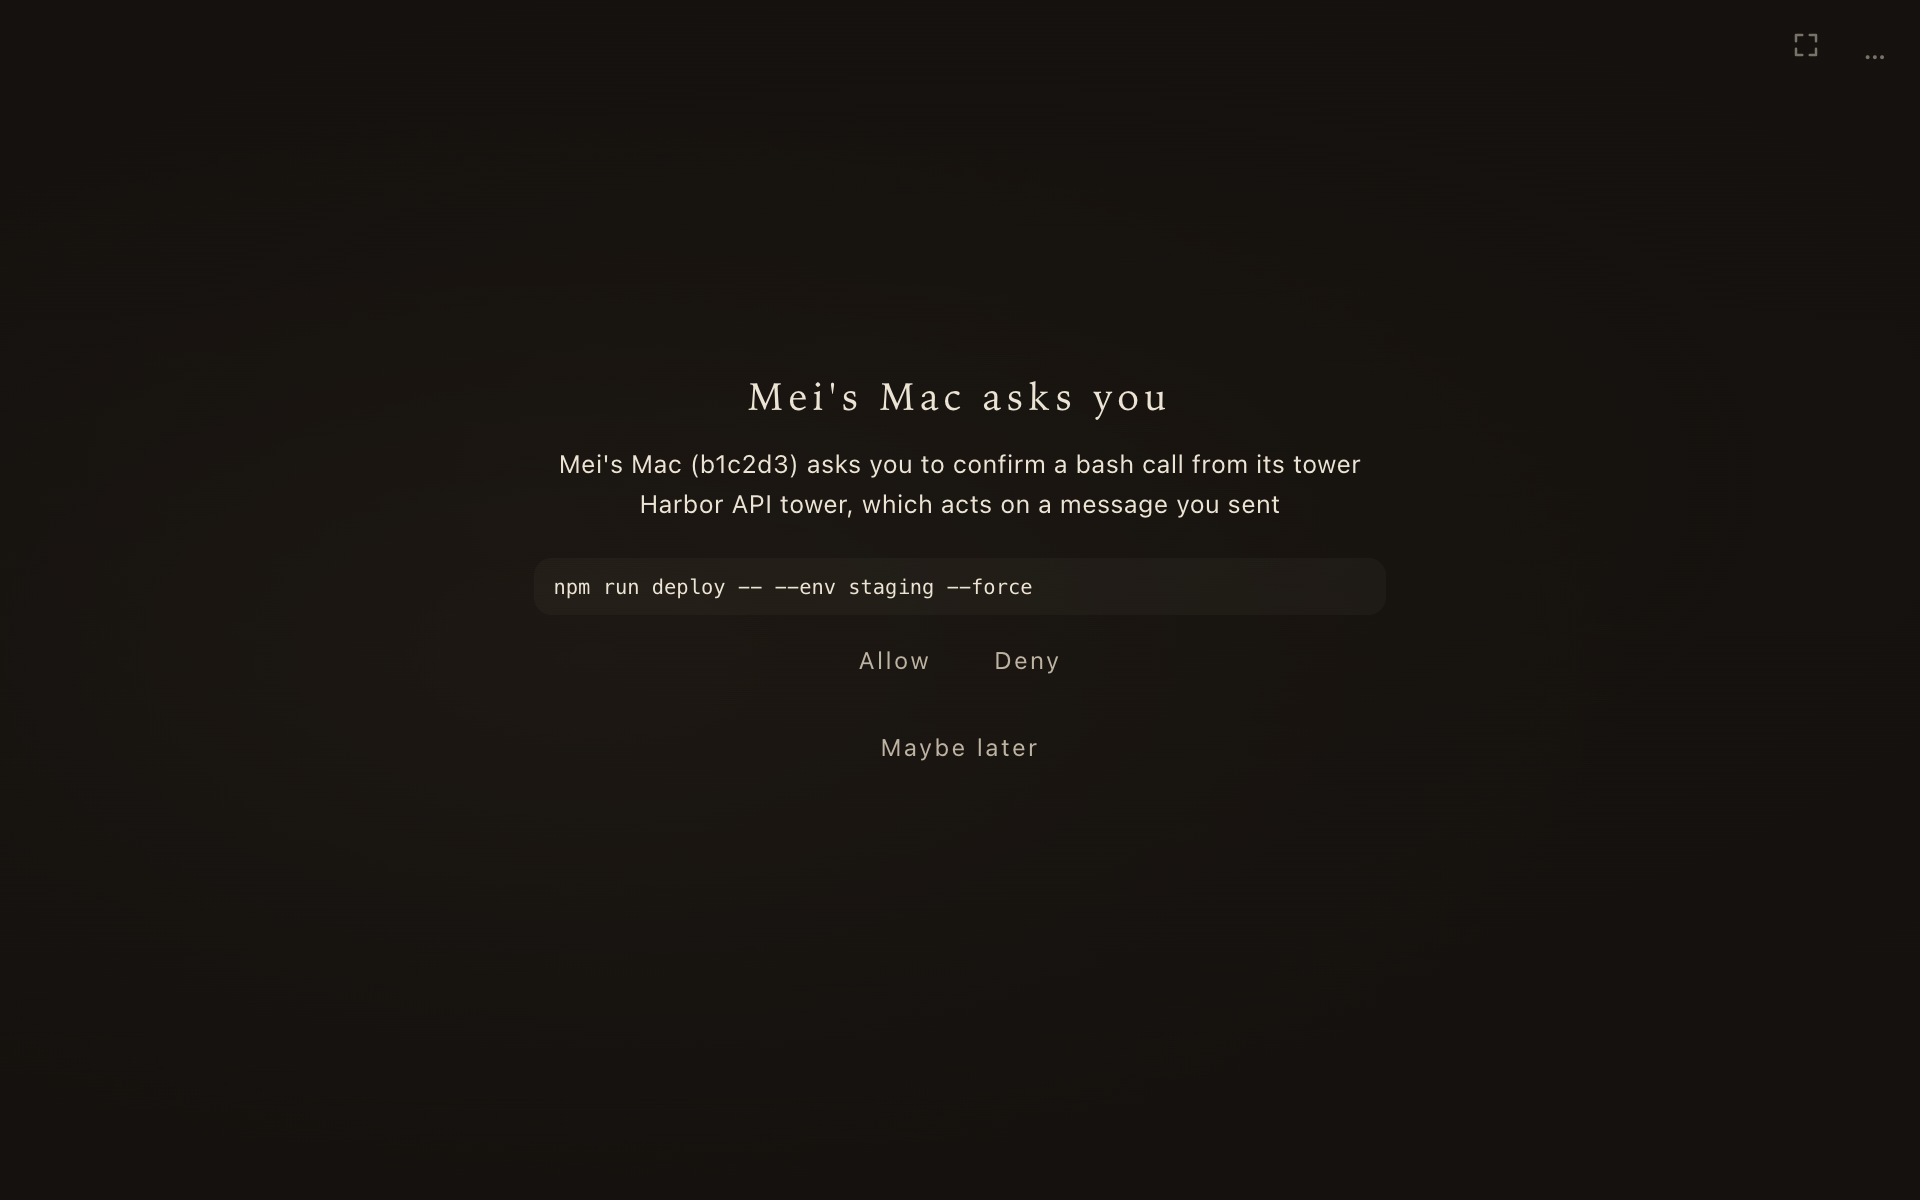
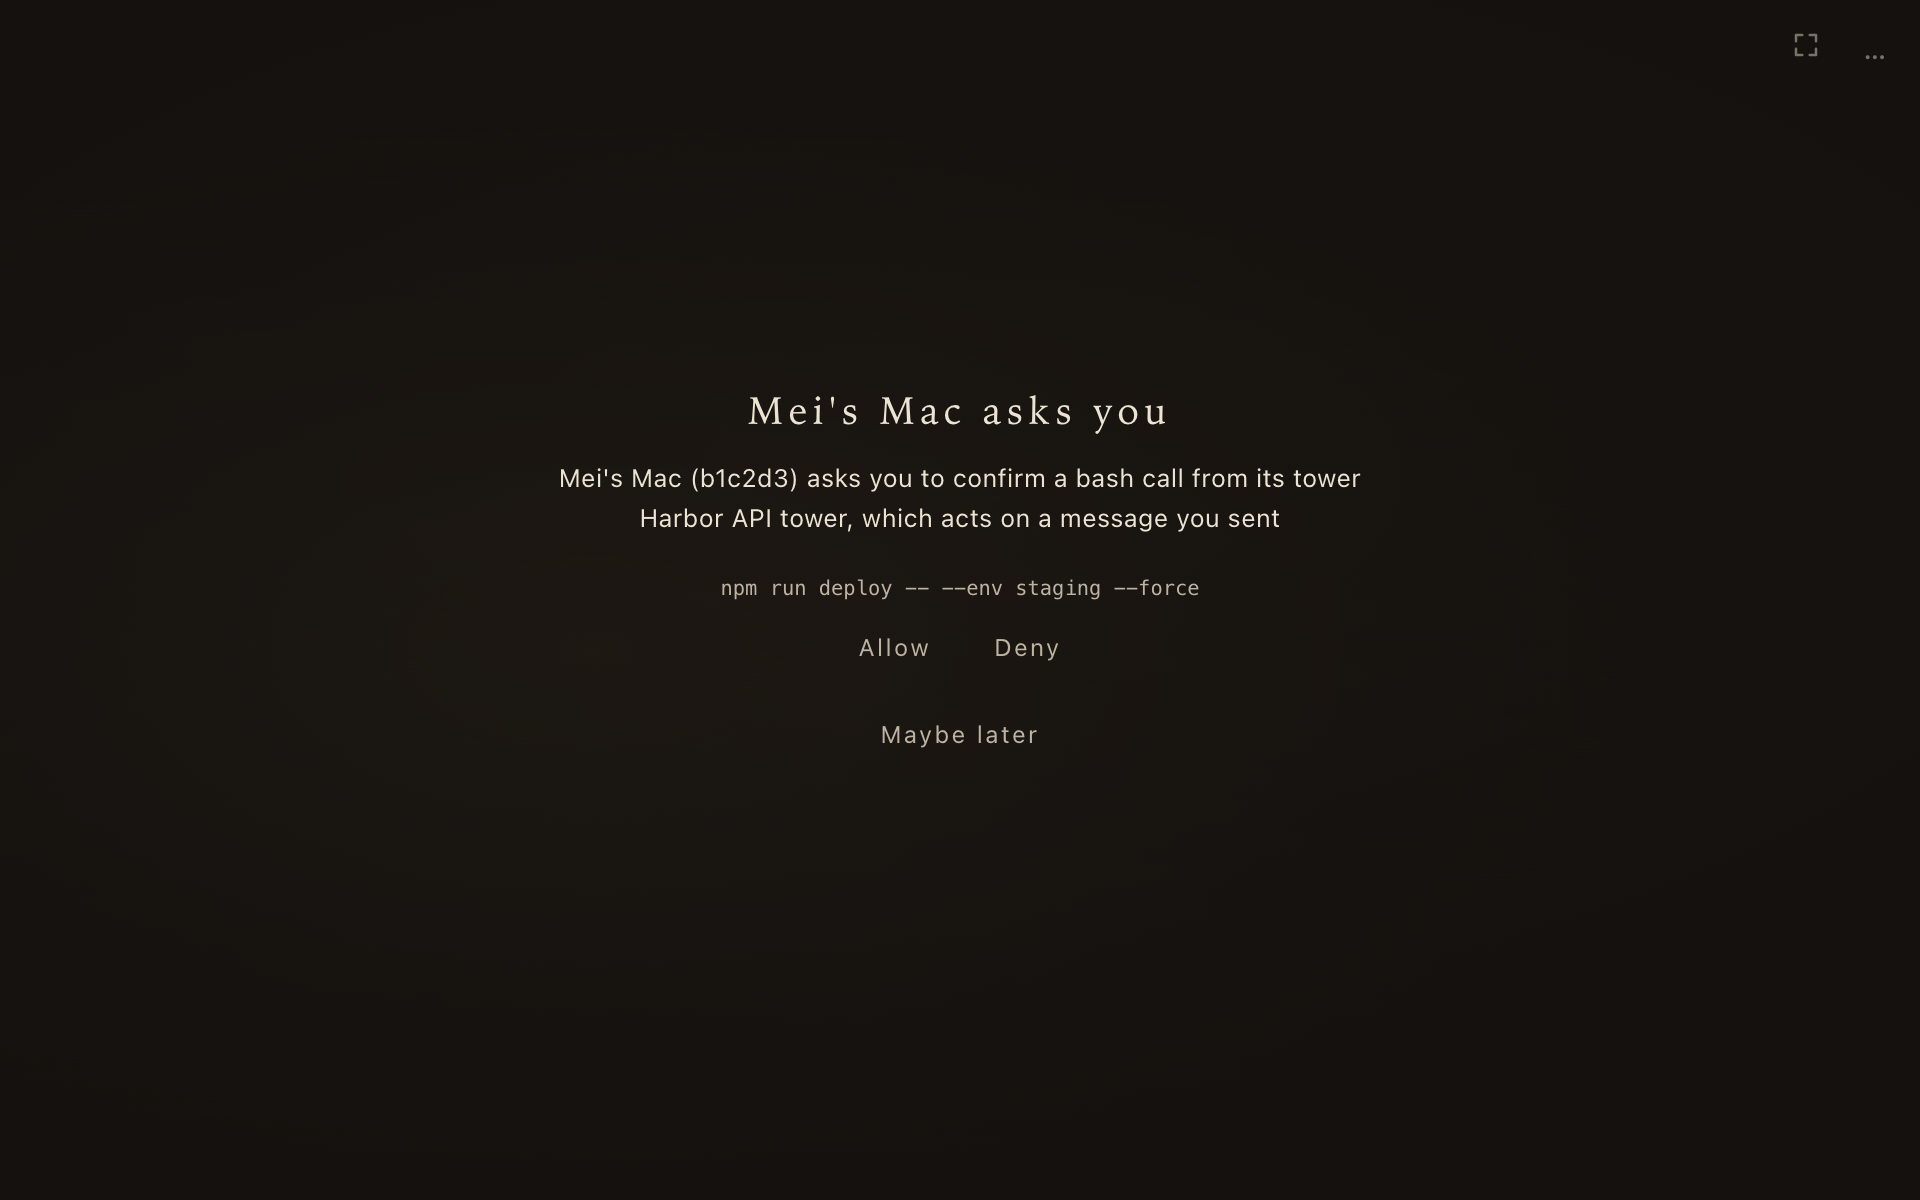
fix(gui): the confirm's command is centred type without a box; screenshot and byte budgets re-measured on a fresh build

Changed region(s): [[0.2812, 0.3083, 0.7188, 0.4933], [0.4688, 0.5858, 0.5312, 0.6475], [0.4375, 0.5242, 0.5625, 0.555]]

diff --git a/tests/imports.test.ts b/tests/imports.test.ts
@@ -1024,9 +1024,9 @@ test("the built page is small, self-contained (no remote URLs, fonts, or imports
 	// A wait the boss answered (two messages, the row's line): 296,455 / 121,099 measured, +27 / -10 over the figure below, which the cap keeps in gzip; the raw cap = measured + 15.
 	// Wait panel answers in place (the box, its Esc row, the wait actions, the dialog's and the notice row's panel, the messages): 296,428 / 121,109 measured, +2,873 / +1,799 over the outcome table's figure, all in the lazy chunks. Cap = measured + 15.
 	// Wait review fixes (the folded box, the dialog's title, the input refusal words): 297,054 / 121,362 measured on a fresh build, cap = measured.
-	// Zen link cards review fixes: 305,393 / 124,912 measured, +1,842 / +651 over the figure below, all lazy: the confirm's refusal words, the pair card's own-request check, the sig and the keyed replies, and the messages in both languages. Cap = measured.
+	// Zen link cards review fixes: 305,393 / 124,922 measured, +1,842 / +661 over the figure below, all lazy: the confirm's refusal words, the pair card's own-request check, the sig and the keyed replies, and the messages in both languages. Cap = measured.
 	// Zen link cards: 303,551 / 124,261 measured, +6,497 / +2,899 over the figure above, all lazy: the cards' panels (zendecide.ts), their alerts (cardalerts.ts), the shared actions (asks.ts), the pair list (pairs.ts), and the messages in both languages. Cap = measured.
-	assert.ok(chunks.length >= 1 && total(chunks, (n) => size(n).length) <= 305_393 && total(chunks, gz) <= 124_912, `the chat chunks are ${total(chunks, (n) => size(n).length)} bytes (${total(chunks, gz)} gzipped)`);
+	assert.ok(chunks.length >= 1 && total(chunks, (n) => size(n).length) <= 305_393 && total(chunks, gz) <= 124_922, `the chat chunks are ${total(chunks, (n) => size(n).length)} bytes (${total(chunks, gz)} gzipped)`);
 	// The stylesheet's figure was 22 KB / 6 KB; 0.4.0 raised it by 0.1 KB for the comms anchor highlight, the receive-only strip, and the title link;
 	// 0.5.0 to 24.6 KB / 6.7 KB for the composer, the phone layout with its touch targets and safe-area insets, and the pairing tile.
 	// and to 26 KB / 7 KB for the read-only question panel and the net log that folds on a phone; 0.5.1 to 26.5 KB raw for the queue line in the dialogs.

diff --git a/gui/zen.css b/gui/zen.css
@@ -411,7 +411,7 @@
 /* Link cards (gui/zendecide.ts): Allow and Deny, Confirm and Reject, and a pair request's number. The panel is a wait panel (its buttons are the card's text buttons above), centred; the tool's arguments are code on a faint tint with no frame; the number is the head strip's hairline field. */
 [data-view="zen"] .zen-decide > * { flex: 1 1 100%; min-width: 0; margin: 0; }
 [data-view="zen"] .zen-decide-acts { display: flex; justify-content: center; flex-wrap: wrap; gap: 4px 8px; }
-[data-view="zen"] .zen-decide .zen-args { max-height: 9rem; overflow: auto; padding: 0; border: 0; background: none; color: var(--zen-ash); font: 400 0.85rem/1.5 ui-monospace, Menlo, Consolas, monospace; text-align: left; white-space: pre-wrap; overflow-wrap: anywhere; scrollbar-width: none; }
+[data-view="zen"] .zen-decide .zen-args { max-height: 9rem; overflow: auto; padding: 0; border: 0; background: none; flex: 0 1 auto; max-width: 100%; margin-inline: auto; color: var(--zen-ash); font: 400 0.85rem/1.5 ui-monospace, Menlo, Consolas, monospace; text-align: left; white-space: pre-wrap; overflow-wrap: anywhere; scrollbar-width: none; }
 [data-view="zen"] .zen-decide .zen-pair-ask { color: var(--zen-ash); font: 400 0.9rem var(--sans); letter-spacing: 0.04em; }
 [data-view="zen"] .zen-decide .zen-pair-number { flex: 0 0 8rem; width: 8rem; max-width: 100%; margin-inline: auto; text-align: center; font-size: 1.4rem; letter-spacing: 0.4em; text-indent: 0.4em; }
 [data-view="zen"] .zen-decide .zen-head-note { text-align: center; }

diff --git a/README.md b/README.md
@@ -32,7 +32,7 @@ English | [繁體中文](https://github.com/wayne930242/pi-straw-boss/blob/main/
 
 <p align="center"><img src="docs/gui-zen-music.png" width="49%" alt="The Zen view with a music folder: the ♪ switch and the open track list in the corner"></p>
 
-<p align="center"><img src="docs/gui-zen-link.png" width="49%" alt="The Zen view with a confirm a teammate's tower asked of this computer: who asks, the sentence, the tool's arguments as code on a faint ground, Allow and Deny, and Maybe later below"></p>
+<p align="center"><img src="docs/gui-zen-link.png" width="49%" alt="The Zen view with a confirm a teammate's tower asked of this computer: who asks, the sentence, the tool's arguments in dim type without a box, Allow and Deny, and Maybe later below"></p>
 
 <p align="center"><sub>Zen: one item at a time, the companion session when nothing waits, a breathing circle when there is no session, the corner menu, the context, the command palette, the music, a tower's wait answered on its card, a teammate's confirm answered on its card, and the same on a phone.</sub></p>
 

diff --git a/README.zh-TW.md b/README.zh-TW.md
@@ -32,7 +32,7 @@
 
 <p align="center"><img src="docs/gui-zen-music.png" width="49%" alt="有音樂資料夾時的禪檢視：右上角的 ♪ 開關與打開的曲目清單"></p>
 
-<p align="center"><img src="docs/gui-zen-link.png" width="49%" alt="禪檢視裡隊友的塔台向這台電腦要的確認：誰在問、那句話、工具的參數（淡淡的底上的程式碼）、允許和拒絕，下方是晚點再說"></p>
+<p align="center"><img src="docs/gui-zen-link.png" width="49%" alt="禪檢視裡隊友的塔台向這台電腦要的確認：誰在問、那句話、工具的參數（沒有框的淡色字）、允許和拒絕，下方是晚點再說"></p>
 
 <p align="center"><sub>禪：一次一件待辦、沒東西等時陪著的 session、沒有 session 時的呼吸圓圈、右上角選單、前情、指令面板、音樂、在卡片上回覆塔台的等待、在卡片上回覆隊友的確認，以及同樣的畫面在手機上的樣子。</sub></p>
 
